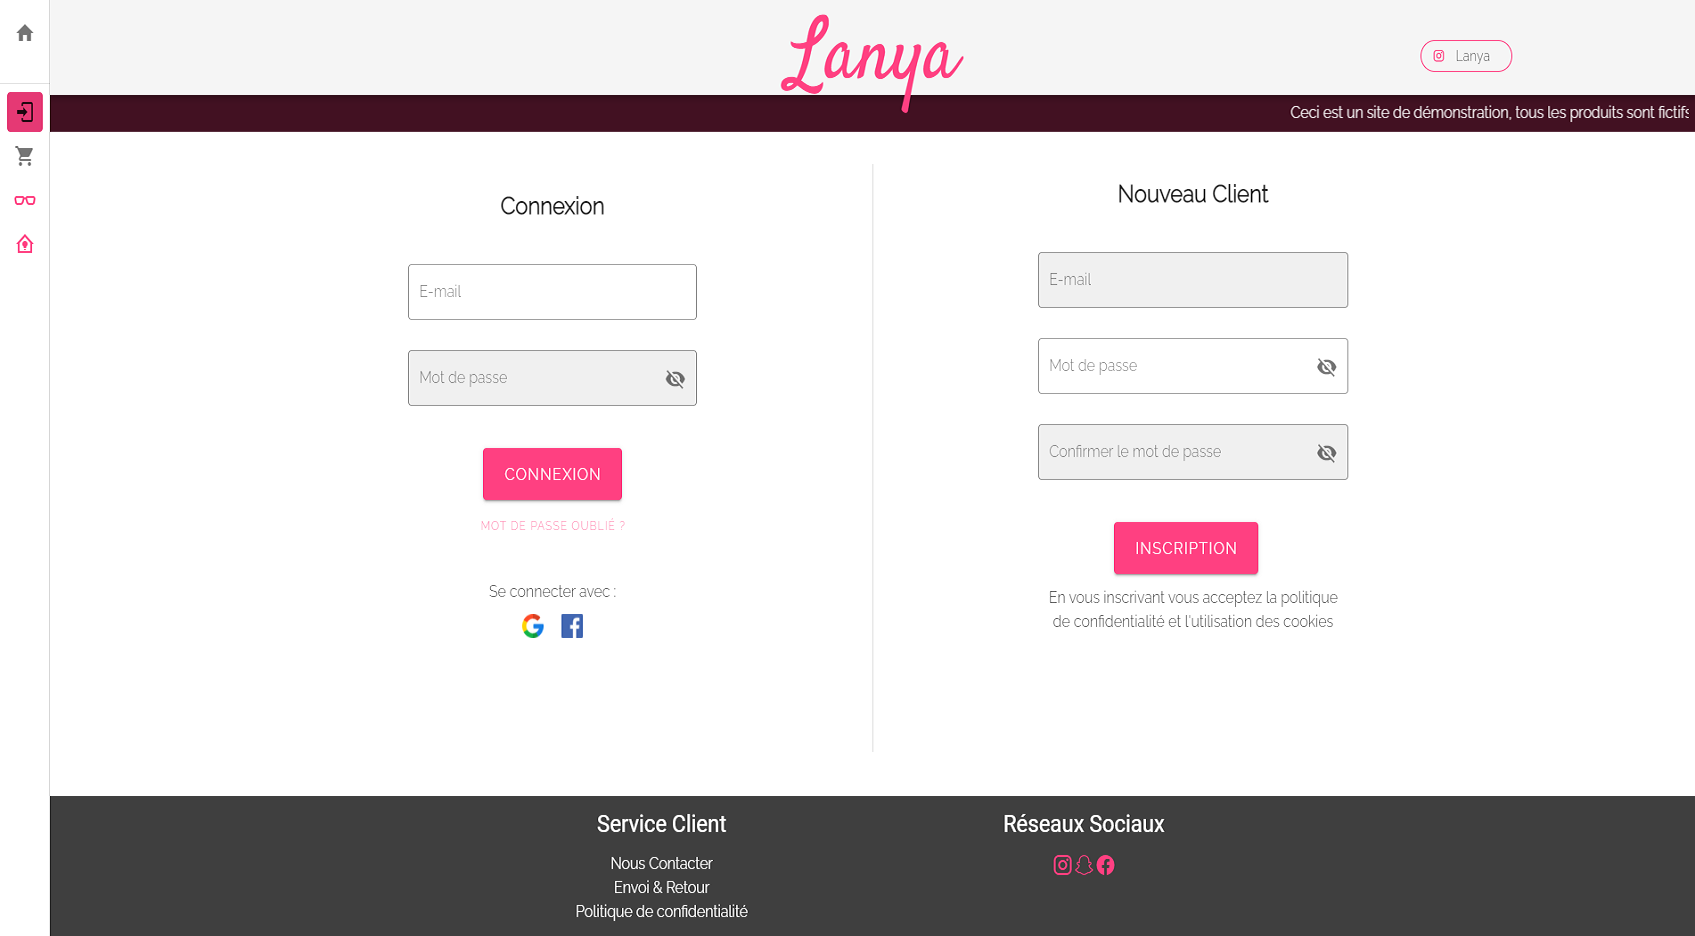
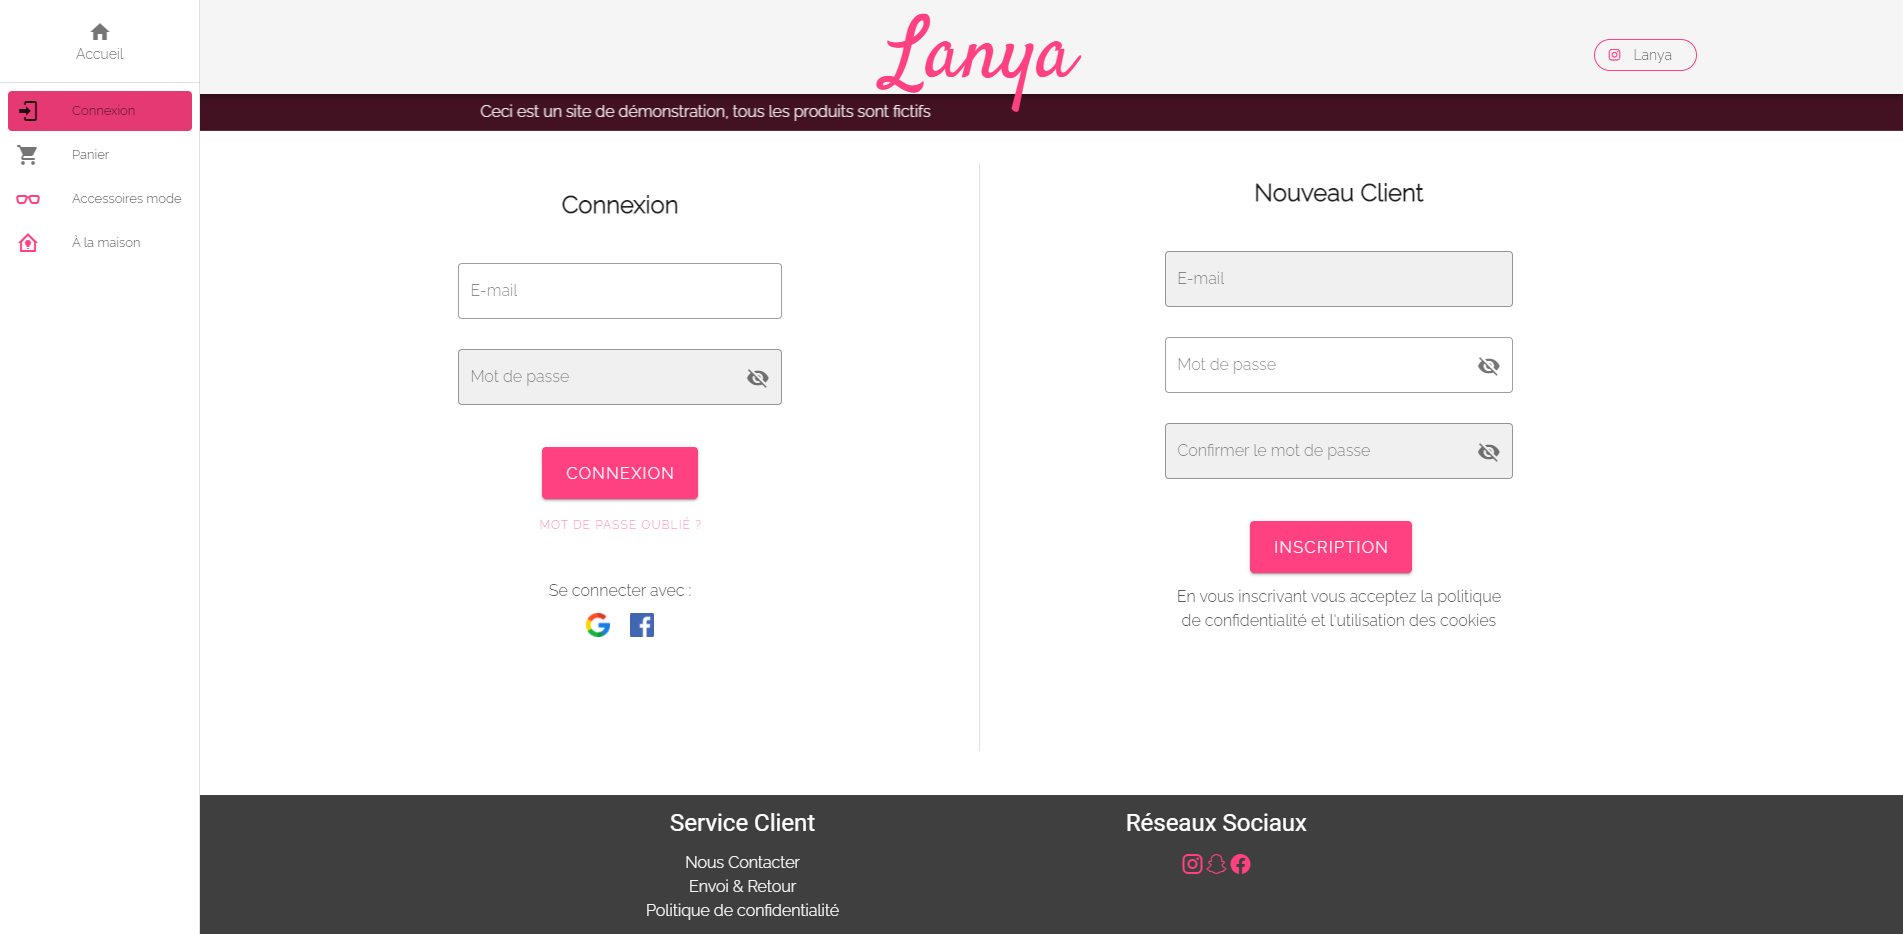
better screenshots, deleted not used images, closing drawer on click on mobile, TODO: App.vue : drawer = true if desktop, false if mobile

diff --git a/src/components/skills.vue b/src/components/skills.vue
@@ -9,9 +9,9 @@
         <v-col>
           <v-hover v-slot="{ hover }">
             <v-row>
-              <v-col cols="12">
+              <v-col>
                 <v-icon :elevation="hover ? 12 : 2"
-                        :class="{ 'on-hover': hover }" size="65">$vuetify.icons.htmlIcon
+                        :class="{ 'on-hover': hover }" size="60">$vuetify.icons.htmlIcon
                 </v-icon>
               </v-col>
               <v-col cols="12">
@@ -23,9 +23,9 @@
         <v-col>
           <v-hover v-slot="{ hover }">
             <v-row>
-              <v-col cols="12">
+              <v-col>
                 <v-icon :elevation="hover ? 12 : 2"
-                        :class="{ 'on-hover': hover }" size="65">$vuetify.icons.cssIcon
+                        :class="{ 'on-hover': hover }" size="60">$vuetify.icons.cssIcon
                 </v-icon>
               </v-col>
               <v-col cols="12">
@@ -37,9 +37,9 @@
         <v-col>
           <v-hover v-slot="{ hover }">
             <v-row>
-              <v-col cols="12">
+              <v-col>
                 <v-icon :elevation="hover ? 12 : 2"
-                        :class="{ 'on-hover': hover }" size="65">$vuetify.icons.vueIcon
+                        :class="{ 'on-hover': hover }" size="60">$vuetify.icons.vueIcon
                 </v-icon>
               </v-col>
               <v-col cols="12">
@@ -51,9 +51,9 @@
         <v-col>
           <v-hover v-slot="{ hover }">
             <v-row>
-              <v-col cols="12">
+              <v-col>
                 <v-icon :elevation="hover ? 12 : 2"
-                        :class="{ 'on-hover': hover }" size="65">$vuetify.icons.symfonyIcon
+                        :class="{ 'on-hover': hover }" size="60">$vuetify.icons.symfonyIcon
                 </v-icon>
               </v-col>
               <v-col cols="12">
@@ -65,9 +65,9 @@
         <v-col>
           <v-hover v-slot="{ hover }">
             <v-row>
-              <v-col cols="12">
+              <v-col>
                 <v-icon :elevation="hover ? 12 : 2"
-                        :class="{ 'on-hover': hover }" size="65">$vuetify.icons.electronIcon
+                        :class="{ 'on-hover': hover }" size="60">$vuetify.icons.electronIcon
                 </v-icon>
               </v-col>
               <v-col cols="12">
@@ -79,9 +79,9 @@
         <v-col>
           <v-hover v-slot="{ hover }">
             <v-row>
-              <v-col cols="12">
+              <v-col>
                 <v-icon :elevation="hover ? 12 : 2"
-                        :class="{ 'on-hover': hover }" size="65">$vuetify.icons.firebaseIcon
+                        :class="{ 'on-hover': hover }" size="60">$vuetify.icons.firebaseIcon
                 </v-icon>
               </v-col>
               <v-col cols="12">
@@ -96,9 +96,9 @@
         <v-col>
           <v-hover v-slot="{ hover }">
             <v-row>
-              <v-col cols="12">
+              <v-col>
                 <v-icon :elevation="hover ? 12 : 2"
-                        :class="{ 'on-hover': hover }" size="65">$vuetify.icons.figmaIcon
+                        :class="{ 'on-hover': hover }" size="60">$vuetify.icons.figmaIcon
                 </v-icon>
               </v-col>
               <v-col cols="12">
@@ -110,9 +110,9 @@
         <v-col>
           <v-hover v-slot="{ hover }">
             <v-row>
-              <v-col cols="12">
+              <v-col>
                 <v-icon :elevation="hover ? 12 : 2"
-                        :class="{ 'on-hover': hover }" size="65">$vuetify.icons.photoshopIcon
+                        :class="{ 'on-hover': hover }" size="60">$vuetify.icons.photoshopIcon
                 </v-icon>
               </v-col>
               <v-col cols="12">

diff --git a/src/components/portfolio.vue b/src/components/portfolio.vue
@@ -22,8 +22,8 @@
                       v-for="(item,i) in lanya"
                       :key="i"
                       :src="item.src"
-                      reverse-transition="fade-transition"
-                      transition="fade-transition"
+                      reverse-transition="none"
+                      transition="none"
               ></v-carousel-item>
             </v-carousel>
           </v-card>
@@ -33,7 +33,7 @@
             <v-card-text> {{ $t('multitasky') }} <a target="_blank" href="https://multitask-6285a.web.app/"
                                                     class="font-weight-bold white--text">Mültitaskÿ</a>
             </v-card-text>
-            <v-carousel :height="carouselHeight">
+            <v-carousel height="auto">
               <v-carousel-item
                       v-for="(item,i) in portfolio"
                       :key="i"
@@ -49,7 +49,7 @@
             <v-card-text>
               {{ $t('fleeting') }}
             </v-card-text>
-            <v-carousel :height="carouselHeight">
+            <v-carousel height="auto">
               <v-carousel-item
                       v-for="(item,i) in fleeting"
                       :key="i"
@@ -110,9 +110,6 @@
 					},
 					{
 						src: require('../assets/fleeting/Screenshot3.png'),
-					},
-					{
-						src: require('../assets/fleeting/Screenshot4.png'),
 					},
 				],
 			};

diff --git a/src/App.vue b/src/App.vue
@@ -22,7 +22,7 @@
             $vuetify.goTo('#about', {
               duration: '1500',
               easing: 'easeInOutQuad',
-            })
+            }), drawer = false
           "
         >
           <v-list-item-icon>
@@ -39,7 +39,7 @@
             $vuetify.goTo('#services', {
               duration: '1500',
               easing: 'easeInOutQuad',
-            })
+            }), drawer = false
           "
         >
           <v-list-item-icon>
@@ -56,7 +56,7 @@
             $vuetify.goTo('#skills', {
               duration: '1500',
               easing: 'easeInOutQuad',
-            })
+            }), drawer = false
           "
         >
           <v-list-item-icon>
@@ -73,7 +73,7 @@
             $vuetify.goTo('#portfolio', {
               duration: '1500',
               easing: 'easeInOutQuad',
-            })
+            }), drawer = false
           "
         >
           <v-list-item-icon>
@@ -90,7 +90,7 @@
             $vuetify.goTo('#contact', {
               duration: '1500',
               easing: 'easeInOutQuad',
-            })
+            }), drawer = false
           "
         >
           <v-list-item-icon>

diff --git a/src/TODO.php b/src/TODO.php
@@ -1,5 +1,3 @@
 <?php
 
-// TODO: change v-carousel =git screenshot resolution to better fit both mobile and desktop view, close nav drawer when clicking a routernav ratio 1,81 on 1080p desktop
-// TODO: star sky flat design
-// TODO: fleeting sass to better screenshots
+// TODO: App.vue : drawer = true if desktop, false if mobile
